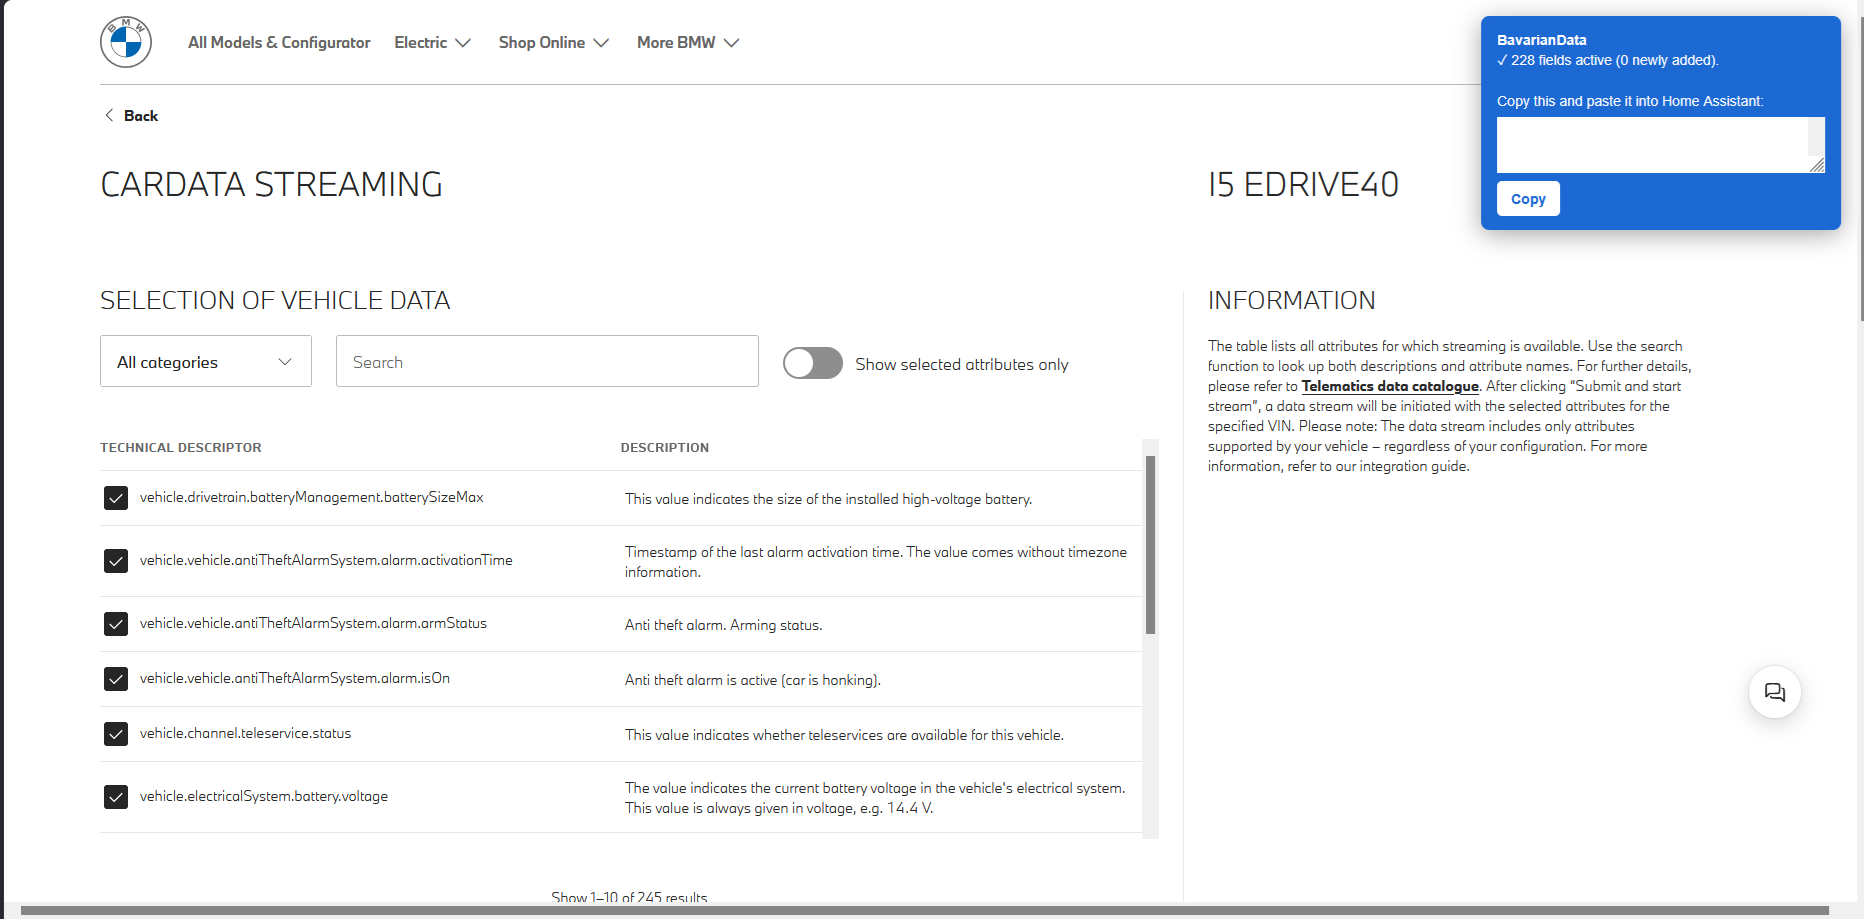
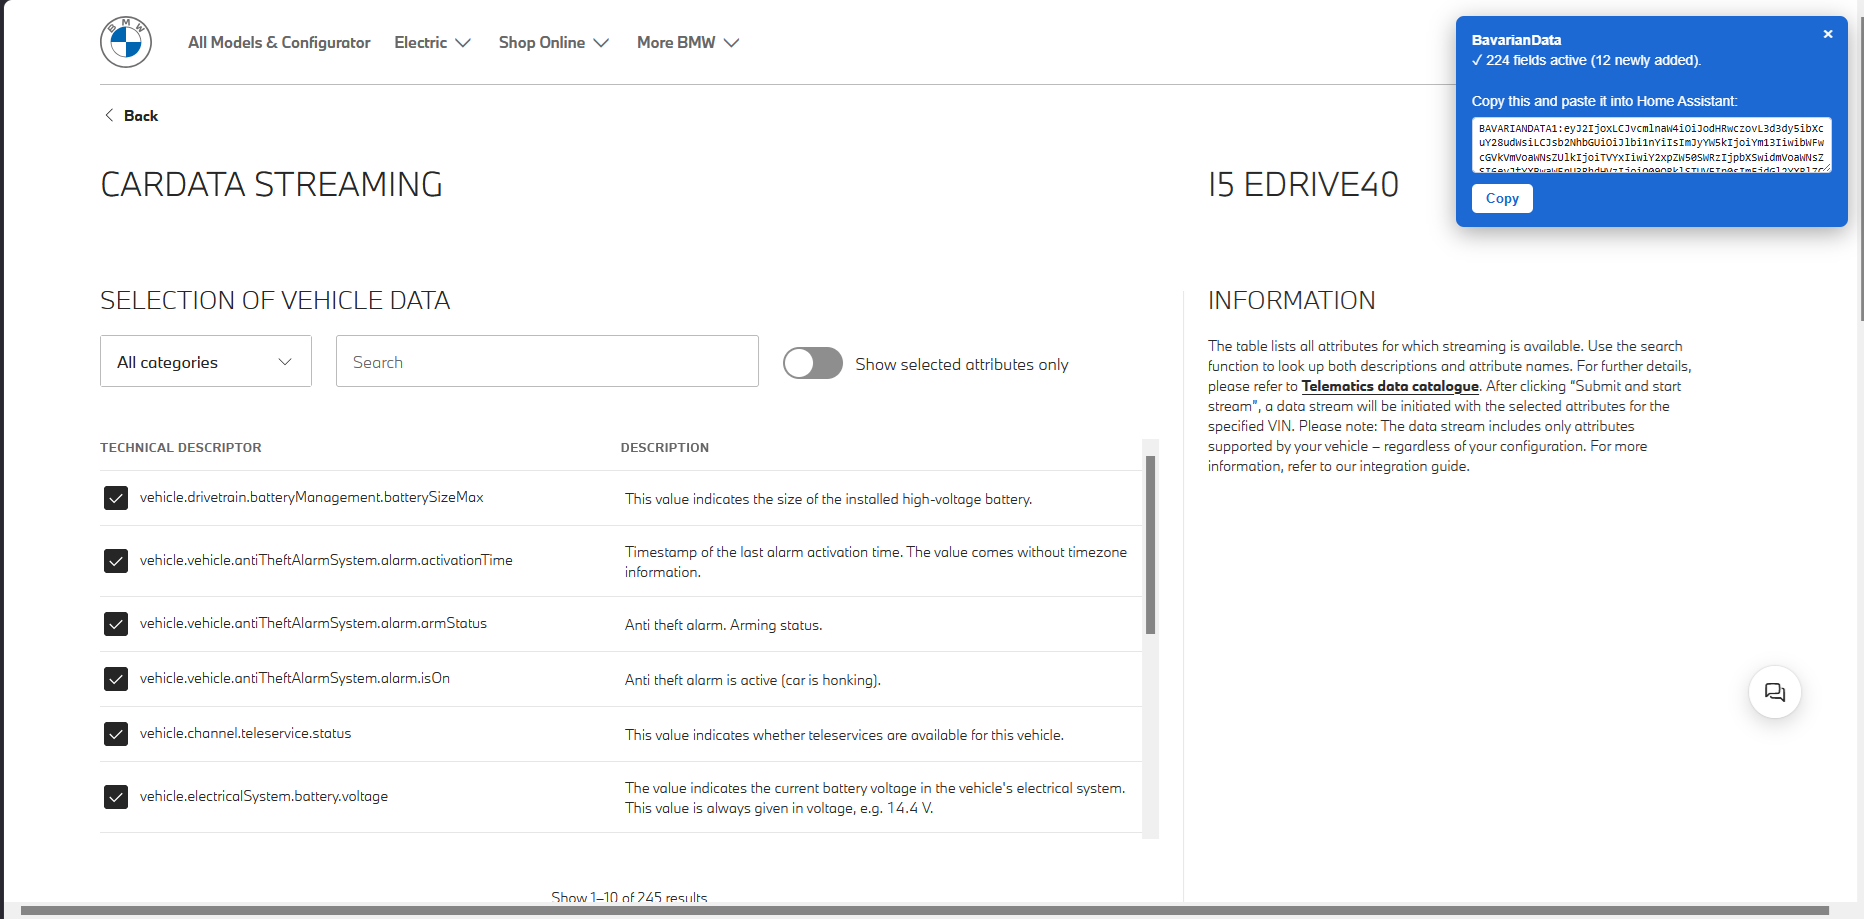
Show the activator's current box and setup page in the wiki
The portal shots predate the box's close button and showed the copy field
empty (the white-on-white look D#370 reported); the setup page shot predates
beta.2's paste box. Retaken from the shipped activator and helper page, run
under Playwright on the existing portal screenshot with BMW's answers stubbed,
so no real account was touched.

Changed region(s): [[0.7779, 0.0, 0.9957, 0.2742]]

diff --git a/docs/wiki/de/DE-Getting-Started-3-Add-and-Authorize.md b/docs/wiki/de/DE-Getting-Started-3-Add-and-Authorize.md
@@ -46,7 +46,7 @@ derselbe Ein-Klick-Aktivator ein — siehe [Schritt 4](DE-Getting-Started-4-Choo
    Assistant nicht mehr:
 
    <p align="center">
-     <img src="https://raw.githubusercontent.com/JustChr/BavarianData/main/screenshots/bavariandata-setup-bookmarklet.png" alt="Die bereitgestellte Aktivierungsseite mit dem ziehbaren Lesezeichen 'Activate BMW data' und einer Konsolen-Alternative" width="600" />
+     <img src="https://raw.githubusercontent.com/JustChr/BavarianData/main/screenshots/bavariandata-setup-bookmarklet.png" alt="Die bereitgestellte Aktivierungsseite mit dem ziehbaren Lesezeichen 'Activate BMW data', einem Feld zum Einfügen des Ergebnisses vom Portal und einer Konsolen-Alternative" width="600" />
    </p>
 
 2. Öffne das **BMW- oder MINI-Portal**, melde dich an, gehe zur
@@ -62,13 +62,13 @@ derselbe Ein-Klick-Aktivator ein — siehe [Schritt 4](DE-Getting-Started-4-Choo
    und keine Sitzung verlässt ihn. Zuerst liest es die verfügbaren Felder …
 
    <p align="center">
-     <img src="https://raw.githubusercontent.com/JustChr/BavarianData/main/screenshots/bmw-portal-bookmarklet-running.png" alt="Dieselbe Portalseite mit der Fortschrittsmeldung 'BavarianData — Reading available fields…' oben rechts" width="760" />
+     <img src="https://raw.githubusercontent.com/JustChr/BavarianData/main/screenshots/bmw-portal-bookmarklet-running.png" alt="Dieselbe Portalseite mit der Fortschrittsmeldung 'BavarianData — Reading available fields…' oben rechts, mit Schließen-Knopf" width="760" />
    </p>
 
    … und meldet dann, wie viele aktiv sind:
 
    <p align="center">
-     <img src="https://raw.githubusercontent.com/JustChr/BavarianData/main/screenshots/bmw-portal-bookmarklet-done.png" alt="Portalseite mit der Meldung 'BavarianData — 228 fields active' und einem Feld 'Copy this and paste it into Home Assistant' mit Copy-Schaltfläche" width="760" />
+     <img src="https://raw.githubusercontent.com/JustChr/BavarianData/main/screenshots/bmw-portal-bookmarklet-done.png" alt="Portalseite mit der Meldung 'BavarianData — 224 fields active', dem Ergebnis unter 'Copy this and paste it into Home Assistant', Copy-Schaltfläche und Schließen-Knopf" width="760" />
    </p>
 
    Zurück in Home Assistant wartet der geführte Bildschirm auf dieses Ergebnis:

diff --git a/docs/wiki/Getting-Started-3-Add-and-Authorize.md b/docs/wiki/Getting-Started-3-Add-and-Authorize.md
@@ -43,7 +43,7 @@ again — see [step 4](Getting-Started-4-Choose-Data).
    earlier try can't reach Home Assistant:
 
    <p align="center">
-     <img src="https://raw.githubusercontent.com/JustChr/BavarianData/main/screenshots/bavariandata-setup-bookmarklet.png" alt="The served activation page with a draggable 'Activate BMW data' bookmarklet button and a console fallback" width="600" />
+     <img src="https://raw.githubusercontent.com/JustChr/BavarianData/main/screenshots/bavariandata-setup-bookmarklet.png" alt="The served activation page with a draggable 'Activate BMW data' bookmarklet button, a box to paste the portal's result into, and a console fallback" width="600" />
    </p>
 
 2. Open the **BMW or MINI portal**, sign in, go to a vehicle's **stream setup**
@@ -59,13 +59,13 @@ again — see [step 4](Getting-Started-4-Choose-Data).
    ever leaves it. You'll see it read the available fields…
 
    <p align="center">
-     <img src="https://raw.githubusercontent.com/JustChr/BavarianData/main/screenshots/bmw-portal-bookmarklet-running.png" alt="The same portal page with a 'BavarianData — Reading available fields…' progress toast in the top-right corner" width="760" />
+     <img src="https://raw.githubusercontent.com/JustChr/BavarianData/main/screenshots/bmw-portal-bookmarklet-running.png" alt="The same portal page with a 'BavarianData — Reading available fields…' progress box in the top-right corner, with a close button" width="760" />
    </p>
 
    …then report how many are active:
 
    <p align="center">
-     <img src="https://raw.githubusercontent.com/JustChr/BavarianData/main/screenshots/bmw-portal-bookmarklet-done.png" alt="Portal page with a 'BavarianData — 228 fields active' toast and a 'Copy this and paste it into Home Assistant' box with a Copy button" width="760" />
+     <img src="https://raw.githubusercontent.com/JustChr/BavarianData/main/screenshots/bmw-portal-bookmarklet-done.png" alt="Portal page with a 'BavarianData — 224 fields active' box showing the result under 'Copy this and paste it into Home Assistant', a Copy button and a close button" width="760" />
    </p>
 
    Back in Home Assistant, the guided screen waits for that result:

diff --git a/docs/documentation-plan.md b/docs/documentation-plan.md
@@ -109,7 +109,7 @@ restructure) · ❌ missing · 📷 needs screenshot.
 | `guided_wait` | Guided: waiting for activation (progress, **https only**) | ❌ needs https HA to reach | 📷 |
 | `guided_paste` | Guided: activation + paste screen (http HA) | ✅ `bavariandata-setup-guided` | — |
 | `guided_done` | Guided: activation confirmation | ❌ needs a real activation | 📷 |
-| served `/bavariandata/onboarding` | Bookmarklet helper page (drag + console fallback) | ✅ `bavariandata-setup-bookmarklet` | — |
+| served `/bavariandata/onboarding` | Bookmarklet helper page (drag + paste box + console fallback) | ✅ `bavariandata-setup-bookmarklet` | — |
 | `manual` | Client ID entry + portal recap | ✅ `bavariandata-setup-manual` | — |
 | `authorize` | Device link + user code | 🟡 | 📷 |
 | `authorize_failed` | Access-denied recovery | 🟡 | 📷 |
@@ -132,7 +132,7 @@ These live on BMW's MyBMW / CarData portal, not in our code. Screenshots are
 | CarData Stream + Change data selection | GS-4 | ✅ | `bmw-portal-change-data-selection` |
 | Stream setup — selection of vehicle data | GS-3 | ✅ | `bmw-portal-stream-setup` |
 | Bookmarklet running (reading fields) | GS-3 | ✅ | `bmw-portal-bookmarklet-running` |
-| Bookmarklet done (fields active + copy box) | GS-3 | ✅ | `bmw-portal-bookmarklet-done` |
+| Bookmarklet done (fields active + copy box + close) | GS-3 | ✅ | `bmw-portal-bookmarklet-done` |
 
 ### Configure (options) menu — 14 actions from `async_step_init`
 
